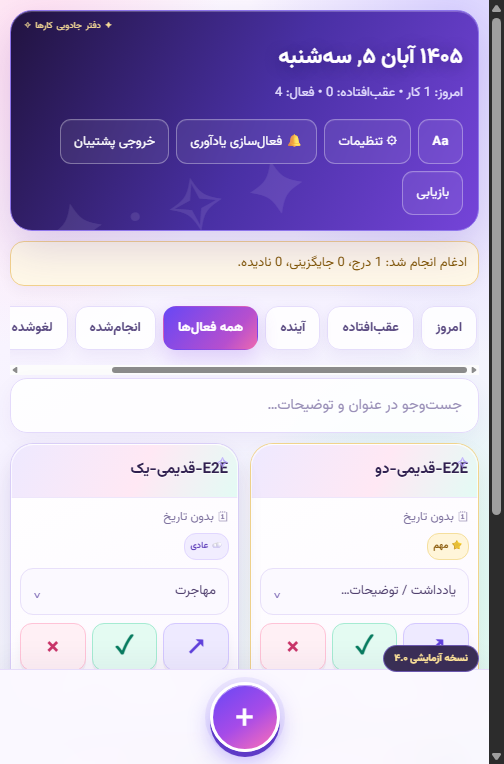
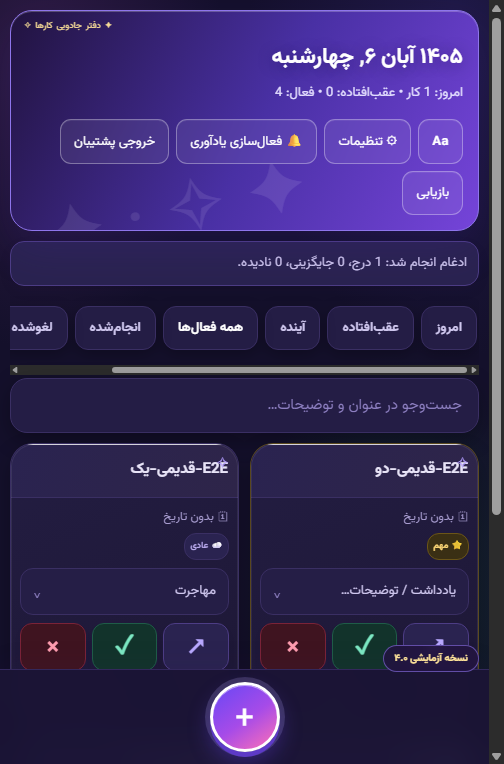
feat(v4.1): P0+P1 — قفل ثبت تکراری، حالت تاریک، aria-live، گارد کنتراست، باتری ۱۰ سناریو، لایهٔ Lighthouse

diff --git a/index.html b/index.html
@@ -159,7 +159,7 @@ body{
 .done{background:#e9fbf3;border-color:#b2ebd1;color:#16805e}
 .cancel{background:#fff0f4;border-color:#ffc7d5;color:#d34367}
 .card-foot{padding:0 13px 13px;align-items:center}
-.mini{font-size:11px;color:#8579a4;text-decoration:none;border-radius:8px;padding:5px 7px}
+.mini{font-size:11px;color:#6f63a3;text-decoration:none;border-radius:8px;padding:5px 7px}
 .mini:hover{background:#f0eaff;color:#55428d}
 .footer{background:#f8f4ffe8;border-top:1px solid #e4daf9;box-shadow:0 -8px 24px #3b276b0b;backdrop-filter:blur(16px);padding:12px 16px calc(12px + env(safe-area-inset-bottom))}
 .add{width:62px;height:62px;background:linear-gradient(145deg,#8a76f1,#b66bd2 72%,#d982c0);border:3px solid #ffffffd9;color:#fff;font-size:35px;box-shadow:0 8px 22px #7862d65c,0 0 0 5px #b9a9f32b;transition:transform .2s,box-shadow .2s}
@@ -336,6 +336,53 @@ html[data-ts="XL"]{--ts:1.26}
 .sysbanner.warn{background:#fff8e8;border-color:#f2d18d;color:#805500}
 .sysbanner.err{background:#fff0f0;border-color:#f0a6a1;color:#a02a2a}
 .sysbanner.upd{background:#eef3ff;border-color:#a9ccff;color:#28518f}
+
+/* V4.1 — dark mode: html[data-mode] توسط JS ست میشود (auto/light/dark) */
+html[data-mode="dark"]{background:#151027;color-scheme:dark}
+html[data-mode="dark"] body{background:radial-gradient(ellipse at 8% 8%,#3a2050b0 0,transparent 29%),radial-gradient(ellipse at 93% 3%,#241d52bb 0,transparent 32%),radial-gradient(ellipse at 82% 78%,#123a30a0 0,transparent 29%),#14102b;background-attachment:fixed;color:#e8e4f7}
+html[data-mode="dark"] .filter{background:#241d45;border-color:#3a2f63;color:#cfc7ee;box-shadow:0 5px 15px #00000040}
+html[data-mode="dark"] .filter.active{color:#fff}
+html[data-mode="dark"] #search{background:#241d45!important;border-color:#3a2f63!important;color:#e8e4f7;box-shadow:0 7px 22px #0000004d!important}
+html[data-mode="dark"] #search::placeholder{color:#8d7fc0}
+html[data-mode="dark"] .card{background:linear-gradient(155deg,#231d42 0,#1f1939 72%,#1c1734 100%);border-color:#3a2f63;border-bottom-color:#352a5c;box-shadow:0 3px 0 #191333,0 9px 20px #00000040}
+html[data-mode="dark"] .card::after{box-shadow:inset 0 0 0 1px #ffffff14}
+html[data-mode="dark"] .card:hover{border-color:#4d3d85;box-shadow:0 4px 0 #241c44,0 15px 28px #00000059}
+html[data-mode="dark"] .card-title{background:linear-gradient(115deg,#2a2350,#2e2549);border-bottom-color:#3a2f63;color:#e8e4f7;text-shadow:none}
+html[data-mode="dark"] .card.completed{background:linear-gradient(145deg,#12332b,#173a2f);border-color:#1f5c48}
+html[data-mode="dark"] .card.completed .card-title{background:linear-gradient(115deg,#14402f,#123329);color:#b9f4dd}
+html[data-mode="dark"] .card.urgent-card{border-color:#6b2340}
+html[data-mode="dark"] .card.urgent-card .card-title{background:linear-gradient(115deg,#3a1a2b,#33222a)}
+html[data-mode="dark"] .card.important-card{border-color:#5c4a1f}
+html[data-mode="dark"] .card.cancelled,html[data-mode="dark"] .card.postponed{background:linear-gradient(140deg,#1e1a33,#1b1730);opacity:.92}
+html[data-mode="dark"] .meta{color:#a89dd0}
+html[data-mode="dark"] .priority-badge{background:#2a2350;border-color:#3a2f63;color:#b9a9ec}
+html[data-mode="dark"] .priority-badge.important{background:#3a2f14;border-color:#6b5518;color:#ffd978}
+html[data-mode="dark"] .priority-badge.urgent{background:#3f1420;border-color:#7a2338;color:#ff9db0}
+html[data-mode="dark"] .desc-toggle{background:#251e46;border-color:#3a2f63;color:#cfc7ee}
+html[data-mode="dark"] .desc-toggle:hover{background:#2c2452;border-color:#4d3d85}
+html[data-mode="dark"] .chev{color:#8d7fc0}
+html[data-mode="dark"] .desc{background:#1c1734;border-color:#3a2f63;color:#d8d2ef}
+html[data-mode="dark"] .move{background:#2a2350;border-color:#4d3d85;color:#b9a9ff}
+html[data-mode="dark"] .done{background:#12332b;border-color:#1f5c48;color:#7ce8c3}
+html[data-mode="dark"] .cancel{background:#3f1420;border-color:#7a2338;color:#ff9db0}
+html[data-mode="dark"] .mini{color:#9d92c4}
+html[data-mode="dark"] .mini:hover{background:#2a2350;color:#cfc7ee}
+html[data-mode="dark"] .footer{background:#1a1435e8;border-top-color:#33285c}
+html[data-mode="dark"] .empty{background:linear-gradient(140deg,#1f1940,#1b1633);border-color:#4a3b80;color:#a99fd0}
+html[data-mode="dark"] .backdrop{background:#0b071999}
+html[data-mode="dark"] .modal{background:linear-gradient(150deg,#221c44,#1d1737);border-color:#3a2f63;color:#e8e4f7;box-shadow:0 28px 85px #000000a6}
+html[data-mode="dark"] .modal h2{color:#e8e4f7;border-bottom-color:#3a2f63}
+html[data-mode="dark"] .field label{color:#a89dd0}
+html[data-mode="dark"] .field input,html[data-mode="dark"] .field textarea,html[data-mode="dark"] .field select,html[data-mode="dark"] .jalali-picker select,html[data-mode="dark"] .time-picker select{background:#1c1734;border-color:#3a2f63;color:#e8e4f7}
+html[data-mode="dark"] .secondary{background:#2a2350;color:#cfc7ee;border-color:#3a2f63}
+html[data-mode="dark"] .danger{background:#3f1420;color:#ff9db0;border-color:#7a2338}
+html[data-mode="dark"] .rowitem{background:#1f1940;border-color:#3a2f63}
+html[data-mode="dark"] .historyline{color:#9d92c4;border-color:#3a2f63}
+html[data-mode="dark"] .small{background:#1c1734;border-color:#3a2f63;color:#cfc7ee}
+html[data-mode="dark"] .notice{background:#2a2350;border-color:#4d3d85;color:#cfc7ee}
+html[data-mode="dark"] .sysbanner.warn{background:#3a2f14;border-color:#6b5518;color:#ffd978}
+html[data-mode="dark"] .sysbanner.err{background:#3f1420;border-color:#7a2338;color:#ff9db0}
+html[data-mode="dark"] .sysbanner.upd{background:#14213f;border-color:#2a4a8a;color:#9db9ff}
 </style>
 </head>
 <body>
@@ -343,10 +390,10 @@ html[data-ts="XL"]{--ts:1.26}
  <div class="beta-chip" title="نسخه آزمایشی">نسخه آزمایشی ۴.۰</div>
  <header class="top"><div><div class="date" id="date">امروز</div><div id="daySummary" style="font-size:11px;color:#607695;margin-top:5px"></div></div>
  <div class="top-actions"><button class="btn" id="tsBtn" title="اندازهٔ متن">Aa</button><button class="btn" id="settingsOpen">⚙ تنظیمات</button><button class="btn" id="notifyBtn">🔔 فعالسازی یادآوری</button><button class="btn" id="exportBtn">خروجی پشتیبان</button><button class="btn" id="importBtn">بازیابی</button><input id="importFile" type="file" accept="application/json" hidden></div></header>
- <div class="notice" id="notice"></div>
- <div class="sysbanner warn" id="offlineBanner" hidden>🔌 اتصال اینترنت قطع است — برنامه بهصورت آفلاین کار میکند و اطلاعات روی همین دستگاه ذخیره میشود.</div>
- <div class="sysbanner err" id="storageBanner" hidden>⚠ خطای ذخیرهسازی — تغییرات اخیر ذخیره نشدهاند. لطفاً «خروجی پشتیبان» را بگیرید.</div>
- <div class="sysbanner upd" id="updateBanner" hidden>🚀 نسخه جدید آماده است. <button class="small" id="updateBtn">بهروزرسانی</button></div>
+ <div class="notice" id="notice" role="status" aria-live="polite"></div>
+ <div class="sysbanner warn" id="offlineBanner" role="status" hidden>🔌 اتصال اینترنت قطع است — برنامه بهصورت آفلاین کار میکند و اطلاعات روی همین دستگاه ذخیره میشود.</div>
+ <div class="sysbanner err" id="storageBanner" role="status" hidden>⚠ خطای ذخیرهسازی — تغییرات اخیر ذخیره نشدهاند. لطفاً «خروجی پشتیبان» را بگیرید.</div>
+ <div class="sysbanner upd" id="updateBanner" role="status" hidden>🚀 نسخه جدید آماده است. <button class="small" id="updateBtn">بهروزرسانی</button></div>
  <nav class="summary" id="filters">
   <button class="filter active" data-filter="today">امروز</button><button class="filter" data-filter="overdue">عقبافتاده</button><button class="filter" data-filter="upcoming">آینده</button><button class="filter" data-filter="all">همه فعالها</button><button class="filter" data-filter="completed">انجامشده</button><button class="filter" data-filter="cancelled">لغوشده</button><button class="filter" data-filter="history">سوابق انتقال</button>
  </nav>
@@ -391,6 +438,7 @@ html[data-ts="XL"]{--ts:1.26}
 <li>اعلان پسزمینه: برای فعالسازی به سرور Push نیاز است</li>
 <li>اعلان محلی: زمانبندی دقیق در پسزمینه تضمین نمیشود</li>
 </ul>
+<div class="field"><label>پوستهٔ برنامه</label><div class="modal-actions" style="margin-top:2px"><button class="small" id="themeAuto">خودکار (سیستم)</button><button class="small" id="themeLight">روشن</button><button class="small" id="themeDark">تاریک</button></div></div>
 <div class="modal-actions"><button class="secondary" id="logExportBtn">خروجی لاگ برای پشتیبانی</button><button class="secondary" id="restoreBackupBtn" hidden>بازگردانی از نسخهٔ قبلی</button><button class="danger" id="wipeBtn">حذف کامل دادهها</button></div>
   <div class="modal-actions"><button class="secondary" id="settingsClose">بستن</button></div>
  </section>
@@ -416,7 +464,7 @@ function normalizeRecordFull(t){const r=Object.assign({},t);if(typeof r.id!=='st
 async function replaceAllStores(st){
  const records=st.tasks.map(normalizeRecordFull);
  await KarIDB.atomicWrite(records,[['app_meta',{statuses:st.statuses,taskTitles:st.taskTitles||[],events:st.events||[]}],['_migration_v1_done',{at:new Date().toISOString(),count:records.length}]],{clearTasks:true});
- try{localStorage.setItem(KEY,JSON.stringify(st))}catch(e){}
+ try{localStorage.setItem(KEY,JSON.stringify(st))}catch(e){KarLogger.log('warn','mirror_failed',{name:e&&e.name})}
  KarRepo.resetCache();
 }
 function persist(){
@@ -480,7 +528,7 @@ function render(){
  }).join('');
 }
 function openModal(id){const el=document.getElementById(id);el.classList.add('open');const first=el.querySelector('input:not([type=hidden]),select,textarea,button');if(first)requestAnimationFrame(()=>first.focus())}
-function closeModal(id){const el=document.getElementById(id);el.classList.remove('open');if(id==='taskModal')document.getElementById('add').focus()}
+function closeModal(id){const el=document.getElementById(id);el.classList.remove('open');/* قفل ذخیره عمداً تا باز شدن مودال بعدی میماند (BUG-01) */if(id==='taskModal')document.getElementById('add').focus()}
 document.getElementById('grid').addEventListener('click',e=>{
  const b=e.target.closest('[data-action]');if(!b)return;const card=b.closest('.card'),t=state.tasks.find(x=>x.id===card.dataset.id);if(!t)return;
  switch(b.dataset.action){
@@ -489,7 +537,7 @@ document.getElementById('grid').addEventListener('click',e=>{
  case 'edit-details':openTaskModal(t);break
  case 'cancel':if(confirm('این کار لغو شود؟ در سوابق باقی میماند.')){t.state='cancelled';t.updatedAt=nowISO();addEvent(t,'لغو کار');persist();render();showNotice('کار از صفحه حذف شد و سابقه آن حفظ شد. برای مشاهده، بخش لغوشدهها را باز کنید.')}break;
  case 'done':if(t.state==='completed'){if(confirm('این کار دوباره به حالت فعال برگردد؟')){t.state='active';t.status=state.statuses[0]||'برنامهریزی';addEvent(t,'بازگشت به کارهای فعال')}}else{t.state='completed';t.status=state.statuses.includes('تکمیلشده')?'تکمیلشده':t.status;t.completedAt=nowISO();addEvent(t,'انجام شد','تاریخ انجام: '+fmtStamp(t.completedAt))}t.updatedAt=nowISO();persist();render();if(t.state==='completed')showNotice('کار انجامشده و خانه آن سبز شد.');break;
- case 'move':transferId=t.id;document.getElementById('transferDate').value=t.dueDate>todayISO()?t.dueDate:(()=>{let d=new Date();d.setDate(d.getDate()+3);return `${d.getFullYear()}-${String(d.getMonth()+1).padStart(2,'0')}-${String(d.getDate()).padStart(2,'0')}`})();setupJalaliPicker('transferDate',document.getElementById('transferDate').value);setupTimePicker('transferTime',t.dueTime||'10:00');document.getElementById('transferTitle').value=t.title.startsWith('پیگیری: ')?t.title:'پیگیری: '+t.title;document.getElementById('transferNote').value=t.description?`سابقه و توضیحات قبلی: ${t.description}\\n\\nاقدام بعدی:`:'اقدام بعدی:';document.getElementById('transferPriority').value=t.priority;openModal('transferModal');break;
+ case 'move':transferId=t.id;document.getElementById('transferDate').value=t.dueDate>todayISO()?t.dueDate:(()=>{let d=new Date();d.setDate(d.getDate()+3);return `${d.getFullYear()}-${String(d.getMonth()+1).padStart(2,'0')}-${String(d.getDate()).padStart(2,'0')}`})();setupJalaliPicker('transferDate',document.getElementById('transferDate').value);setupTimePicker('transferTime',t.dueTime||'10:00');document.getElementById('transferTitle').value=t.title.startsWith('پیگیری: ')?t.title:'پیگیری: '+t.title;document.getElementById('transferNote').value=t.description?`سابقه و توضیحات قبلی: ${t.description}\\n\\nاقدام بعدی:`:'اقدام بعدی:';document.getElementById('transferPriority').value=t.priority;window.__transferSaving=false;document.getElementById('transferSave').disabled=false;openModal('transferModal');break;
  case 'history':showHistory(t);openModal('historyModal');break;
  }
 });
@@ -506,6 +554,9 @@ document.getElementById('filters').addEventListener('click',e=>{const b=e.target
 document.getElementById('search').addEventListener('input',render);
 document.getElementById('transferClose').addEventListener('click',()=>closeModal('transferModal'));
 document.getElementById('transferSave').addEventListener('click',()=>{
+ if(window.__transferSaving)return; // BUG-03 (قفل تا بستن مودال)
+ window.__transferSaving=true;
+ document.getElementById('transferSave').disabled=true;
  const old=state.tasks.find(x=>x.id===transferId);if(!old)return;const date=document.getElementById('transferDate').value;if(!date){alert('تاریخ پیگیری را انتخاب کنید.');return}if(date<todayISO()&&!confirm('تاریخ انتخابشده در گذشته است. ادامه میدهید؟'))return;
  const title=document.getElementById('transferTitle').value.trim()||('پیگیری: '+old.title),note=document.getElementById('transferNote').value.trim(),time=document.getElementById('transferTime').value,priority=document.getElementById('transferPriority').value;
  old.state='postponed';old.updatedAt=nowISO();old.history=old.history||[];old.history.push({type:'موکول شد',at:nowISO(),note:`پیگیری جدید برای ${fmtDate(date)} ساخته شد.`});addEvent(old,'موکول شد',`پیگیری جدید برای ${fmtDate(date)} ساخته شد.`);
@@ -528,6 +579,7 @@ function renderTaskTitleOptions(selected=''){
  document.getElementById('customTitleWrap').hidden=select.value!=='__custom__';
 }
 function openTaskModal(task){
+ window.__taskSaving=false;document.getElementById('taskSave').disabled=false;
  editingTaskId=task?task.id:null;
  document.getElementById('taskModalHeading').textContent=task?'ویرایش کامل کار':'ثبت کار جدید';
  document.getElementById('taskDate').value=task?.dueDate||todayISO();setupJalaliPicker('taskDate',task?.dueDate||todayISO());
@@ -544,6 +596,9 @@ document.getElementById('taskTitleSelect').addEventListener('change',e=>{
 });
 document.getElementById('taskClose').addEventListener('click',()=>closeModal('taskModal'));
 document.getElementById('taskSave').addEventListener('click',()=>{
+ if(window.__taskSaving)return; // BUG-01: جلوگیری از ثبت تکراری با ضربهٔ دوبله (قفل تا بستن مودال)
+ window.__taskSaving=true;
+ document.getElementById('taskSave').disabled=true;
  const date=document.getElementById('taskDate').value;
  const selected=document.getElementById('taskTitleSelect').value;
  const title=(selected==='__custom__'?document.getElementById('taskCustomTitle').value:selected).trim();
@@ -560,6 +615,16 @@ document.getElementById('addTaskPreset').addEventListener('click',()=>{const el=
 document.getElementById('taskPresetList').addEventListener('click',e=>{const edit=e.target.closest('[data-preset-edit]'),del=e.target.closest('[data-preset-del]');if(edit){const i=+edit.dataset.presetEdit,old=state.taskTitles[i],v=prompt('عنوان جدید:',old);if(v&&v.trim()){const next=v.trim();if(state.taskTitles.includes(next)){alert('این عنوان از قبل وجود دارد.');return}state.taskTitles[i]=next;persist();renderTaskPresets()}}if(del){const i=+del.dataset.presetDel,old=state.taskTitles[i];if(!confirm(`عنوان «${old}» از فهرست انتخاب حذف شود؟ کارهای قبلی تغییر نمیکنند.`))return;state.taskTitles.splice(i,1);persist();renderTaskPresets()}});
 document.getElementById('settingsOpen').addEventListener('click',()=>{renderStatuses();renderTaskPresets();openModal('settingsModal')});
 document.getElementById('settingsClose').addEventListener('click',()=>closeModal('settingsModal'));
+const THEME_KEY='kar_yar_theme';
+function applyTheme(){let pref='auto';try{pref=localStorage.getItem(THEME_KEY)||'auto'}catch(e){}
+ let dark=pref==='dark'||(pref==='auto'&&window.matchMedia&&matchMedia('(prefers-color-scheme: dark)').matches);
+ document.documentElement.dataset.mode=dark?'dark':'light';}
+try{matchMedia('(prefers-color-scheme: dark)').addEventListener('change',applyTheme)}catch(e){}
+function setTheme(pref){try{localStorage.setItem(THEME_KEY,pref)}catch(e){}applyTheme();showNotice('پوسته: '+(pref==='auto'?'خودکار':pref==='dark'?'تاریک':'روشن'));}
+document.getElementById('themeAuto').addEventListener('click',function(){setTheme('auto')});
+document.getElementById('themeLight').addEventListener('click',function(){setTheme('light')});
+document.getElementById('themeDark').addEventListener('click',function(){setTheme('dark')});
+applyTheme();
 document.getElementById('logExportBtn').addEventListener('click',()=>{const blob=new Blob([KarLogger.exportText()],{type:'application/json'}),url=URL.createObjectURL(blob),a=document.createElement('a');a.href=url;a.download='kar-yar-log-'+todayISO()+'.json';a.click();URL.revokeObjectURL(url);});
 document.getElementById('wipeBtn').addEventListener('click',async()=>{
  if(!confirm('همهٔ کارها، سوابق و تنظیمات برای همیشه حذف شوند؟ این عمل بازگشتپذیر نیست.'))return;
@@ -669,14 +734,11 @@ if('serviceWorker' in navigator){window.addEventListener('load',function(){
    var nw=reg.installing;if(!nw)return;
    nw.addEventListener('statechange',function(){
     if(nw.state==='installed'&&navigator.serviceWorker.controller){
-     var b=document.getElementById('updateBanner');if(b)b.hidden=false;
+     var b=document.getElementById('updateBanner');if(b)b.hidden=false; /* بهروزرسانی کنترلشده: فقط با دکمهٔ کاربر */
     }
    });
   });
  }).catch(function(){});
- navigator.serviceWorker.addEventListener('controllerchange',function(){
-  if(sessionStorage.getItem('kar_yar_reloaded')!=='1'){sessionStorage.setItem('kar_yar_reloaded','1');location.reload();}
- });
 })}
 var ub=document.getElementById('updateBtn');
 if(ub)ub.addEventListener('click',function(){sessionStorage.setItem('kar_yar_reloaded','1');location.reload();});

diff --git a/sw.js b/sw.js
@@ -1,6 +1,6 @@
 /* kar-yar v4 — service worker
    راهبرد: shell → stale-while-revalidate، فونت/آیکون/تصویر → cache-first، ناوبری → network با fallback کش */
-const CACHE_NAME = 'kar-yar-v2-pwa-v2';
+const CACHE_NAME = 'kar-yar-v2-pwa-v3';
 const APP_SHELL = [
   './',
   './index.html',

diff --git a/docs/evidence/browser-battery.md b/docs/evidence/browser-battery.md
@@ -1,9 +1,9 @@
-# شواهد باتری E2E مرورگر واقعی (L4 — TEST-MATRIX ردیف ۴ و ۵) — 2026-10-27T03:14:13.188Z
+# شواهد باتری E2E مرورگر واقعی (L4 — TEST-MATRIX ردیف ۴ و ۵) — 2026-10-27T21:44:23.344Z
 
 - مرورگر: `C:\Program Files\Google\Chrome\Application\chrome.exe` (headless، پروفایل یکبارمصرف)
 - رانر: Node v24.18.0، CDP خام روی WebSocket داخلی — صفر وابستگی npm
 - رویدادها: واقعی DOM (`el.click()`/`dispatchEvent` — Trap-04)، آفلاینسازی واقعی با Network.emulateNetworkConditions
-- اجرا: `node scripts/e2e/battery.mjs` (بودجهٔ ماتریس ≤ ۱۵ دقیقه؛ زمان واقعی 12.0s)
+- اجرا: `node scripts/e2e/battery.mjs` (بودجهٔ ماتریس ≤ ۱۵ دقیقه؛ زمان واقعی 29.5s)
 
 | # | مسیر بحرانی | سناریو | انتظار | نتیجه | خروجی ثبتشده | شاهد |
 |---|---|---|---|---|---|---|
@@ -14,5 +14,8 @@
 | T5 | CP-04 | ورودی پشتیبان (schemaVersion:1) | اعلان ادغام + ۴ کار | 🟢 PASS | cards=4 | `docs/evidence/browser/05-import.png` |
 | T6 | CP-05 | بازگردانی از پشتیبان مهاجرت | ۲ کار قدیمی + حذف وارداتی | 🟢 PASS | restored=true | `docs/evidence/browser/06-restore.png` |
 | T7 | CP-06 | حذف کامل با تأیید دومرحلهای | grid خالی و پایدار | 🟢 PASS | empty="در این بخش کاری پیدا نشد." | `docs/evidence/browser/07-wipe.png` |
+| T8 | CP-02 | ویرایش کار + قفل ثبت تکراری | دوکلیک ⇒ ۱ کار + عنوان ویرایششده اعمال شود | 🟢 PASS | prefill="" (مسیر عنوان آماده=طبیعی) cards=1 | `docs/evidence/browser/08-edit.png` |
+| T9 | CP-02 | تکمیل کار با تیک | وضعیت completed + دیدهشدن در فیلتر انجامشده | 🟢 PASS | state=completed | `docs/evidence/browser/09-complete.png` |
+| T10 | CP-02 | انتقال + پیگیری مستقل + سابقه | پیگیری با parentId + اصلی در سوابق | 🟢 PASS | follow=true linked=1 | `docs/evidence/browser/10-transfer.png` |
 
-**نتیجه: 7/7 سبز** — باتری E2E کاملاً سبز است.
+**نتیجه: 10/10 سبز** — باتری E2E کاملاً سبز است.

diff --git a/docs/IOS-CHECKLIST.md b/docs/IOS-CHECKLIST.md
@@ -1,0 +1,26 @@
+# چکلیست آزمون iOS/Safari — کار یار ۴.۱ (۱۰ دقیقه، توسط مالک)
+محدودیت ثبتشده (BUG-07): همهٔ آزمونهای خودکار روی Chrome/اندروید و دسکتاپ اجرا شدهاند؛ Safari/iOS فقط با این چکلیست دستی آزمایش میشود. هر مورد ✓ یا ✗ (با توضیح) را کنارش بنویسید و فایل را برایم بفرستید.
+
+## پیشنیاز
+- [ ] iPhone/iPad واقعی با Safari نسخهٔ 16.4 به بالا
+
+## نصب
+1. [ ] باز کردن `https://khosravi1977.github.io/kar-yar-v2/` در Safari — صفحه بدون خطا باز شود
+2. [ ] Share ⬆ → **Add to Home Screen** → نام «کار یار ۴» و آیکون بنفش دیده شود → Add
+3. [ ] آیکون روی صفحهٔ اصلی ساخته شود و اپ **تمامصفحه** (بدون نوار Safari) باز شود
+
+## آفلاین
+4. [ ] یک کار بسازید → حالت هواپیما را روشن کنید → اپ را ببندید و دوباره باز کنید → کارها دیده شوند
+5. [ ] در حالت آفلاین یک کار جدید ثبت کنید → بنر «اتصال اینترنت قطع است» بالای صفحه بیاید ولی ذخیره انجام شود
+6. [ ] حالت هواپیما را خاموش کنید → بنر محو شود
+
+## پوسته و رابط
+7. [ ] تنظیمات ← پوستهٔ برنامه ← «تاریک» → کل صفحه تاریک و خوانا شود (کنتراست متنها خوب)
+8. [ ] «خودکار (سیستم)» → با تغییر Dark Mode گوشی، برنامه عوض شود
+9. [ ] فونتها فارسی (وزیرمتن) و اعداد شمسی درست نمایش داده شوند
+10. [ ] تاریخ امروز در سربرگ با تقویم شمسی دستگاه بخواند
+
+## نتیجه
+- تعداد ✓: ....... / 10
+- موارد ✗ با توضیح: .......
+- (این فایل را ذخیره کنید و بفرستید — نتیجه در BUGS_AND_FIXES ثبت میشود)

diff --git a/BUGS_AND_FIXES.md b/BUGS_AND_FIXES.md
@@ -1,6 +1,8 @@
 # BUGS_AND_FIXES — کار یار ۴.۰ (مرحلهٔ صفر)
 
 ## بخش الف — مشکلات باز (اولویتبندیشده)
+> **وضعیت پس از فاز P0/P1 (commit انتشار):** BUG-01 ✅ · BUG-02 ✅ · BUG-03 ✅ · BUG-04 ✅ · BUG-05 ✅ · BUG-08 ✅ (باتری ۱۰/۱۰) · BUG-09 ✅ (گارد کنتراست ۲۶ جفت؛ `.mini` اصلاح شد) · BUG-07 🟡 (Lighthouse در CI فعال شد؛ آزمون iOS ← `docs/IOS-CHECKLIST.md`) · BUG-06 🔵 باز (فاز P2 — نیازمند تأیید مالک چون به داده دست میزند)
+> **درس حین فیکس BUG-01:** قفل تایمیِ ۵۰۰ms ذخیرهٔ قانونی بعدی را ساکت رد میکرد و closeModal آن را دور میزد؛ طراحی نهایی: قفل بهازای هر سشن مودال (باز شدن مودال = ریست) — سناریوی T8 با حملهٔ دوکلیک این را اثبات میکند.
 
 ### BUG-01 · شدت: متوسط · ثبت تکراری با لمس دوبلهٔ «ذخیره کار»
 - **شرح:** هندلر `taskSave` هیچ قفل/غیرفعالسازی حین اجرا ندارد؛ دو ضربهٔ سریع = دو `newTask` و دو ذخیره.

diff --git a/docs/evidence/red-injection.md b/docs/evidence/red-injection.md
@@ -1,4 +1,4 @@
-# شواهد تزریق قرمز (PART C) — 2026-10-27T02:38:32.766Z
+# شواهد تزریق قرمز (PART C) — 2026-10-27T21:46:48.566Z
 
 | # | حمله | گارد پاسخگو | وضعیت | خروجی |
 |---|---|---|---|---|
